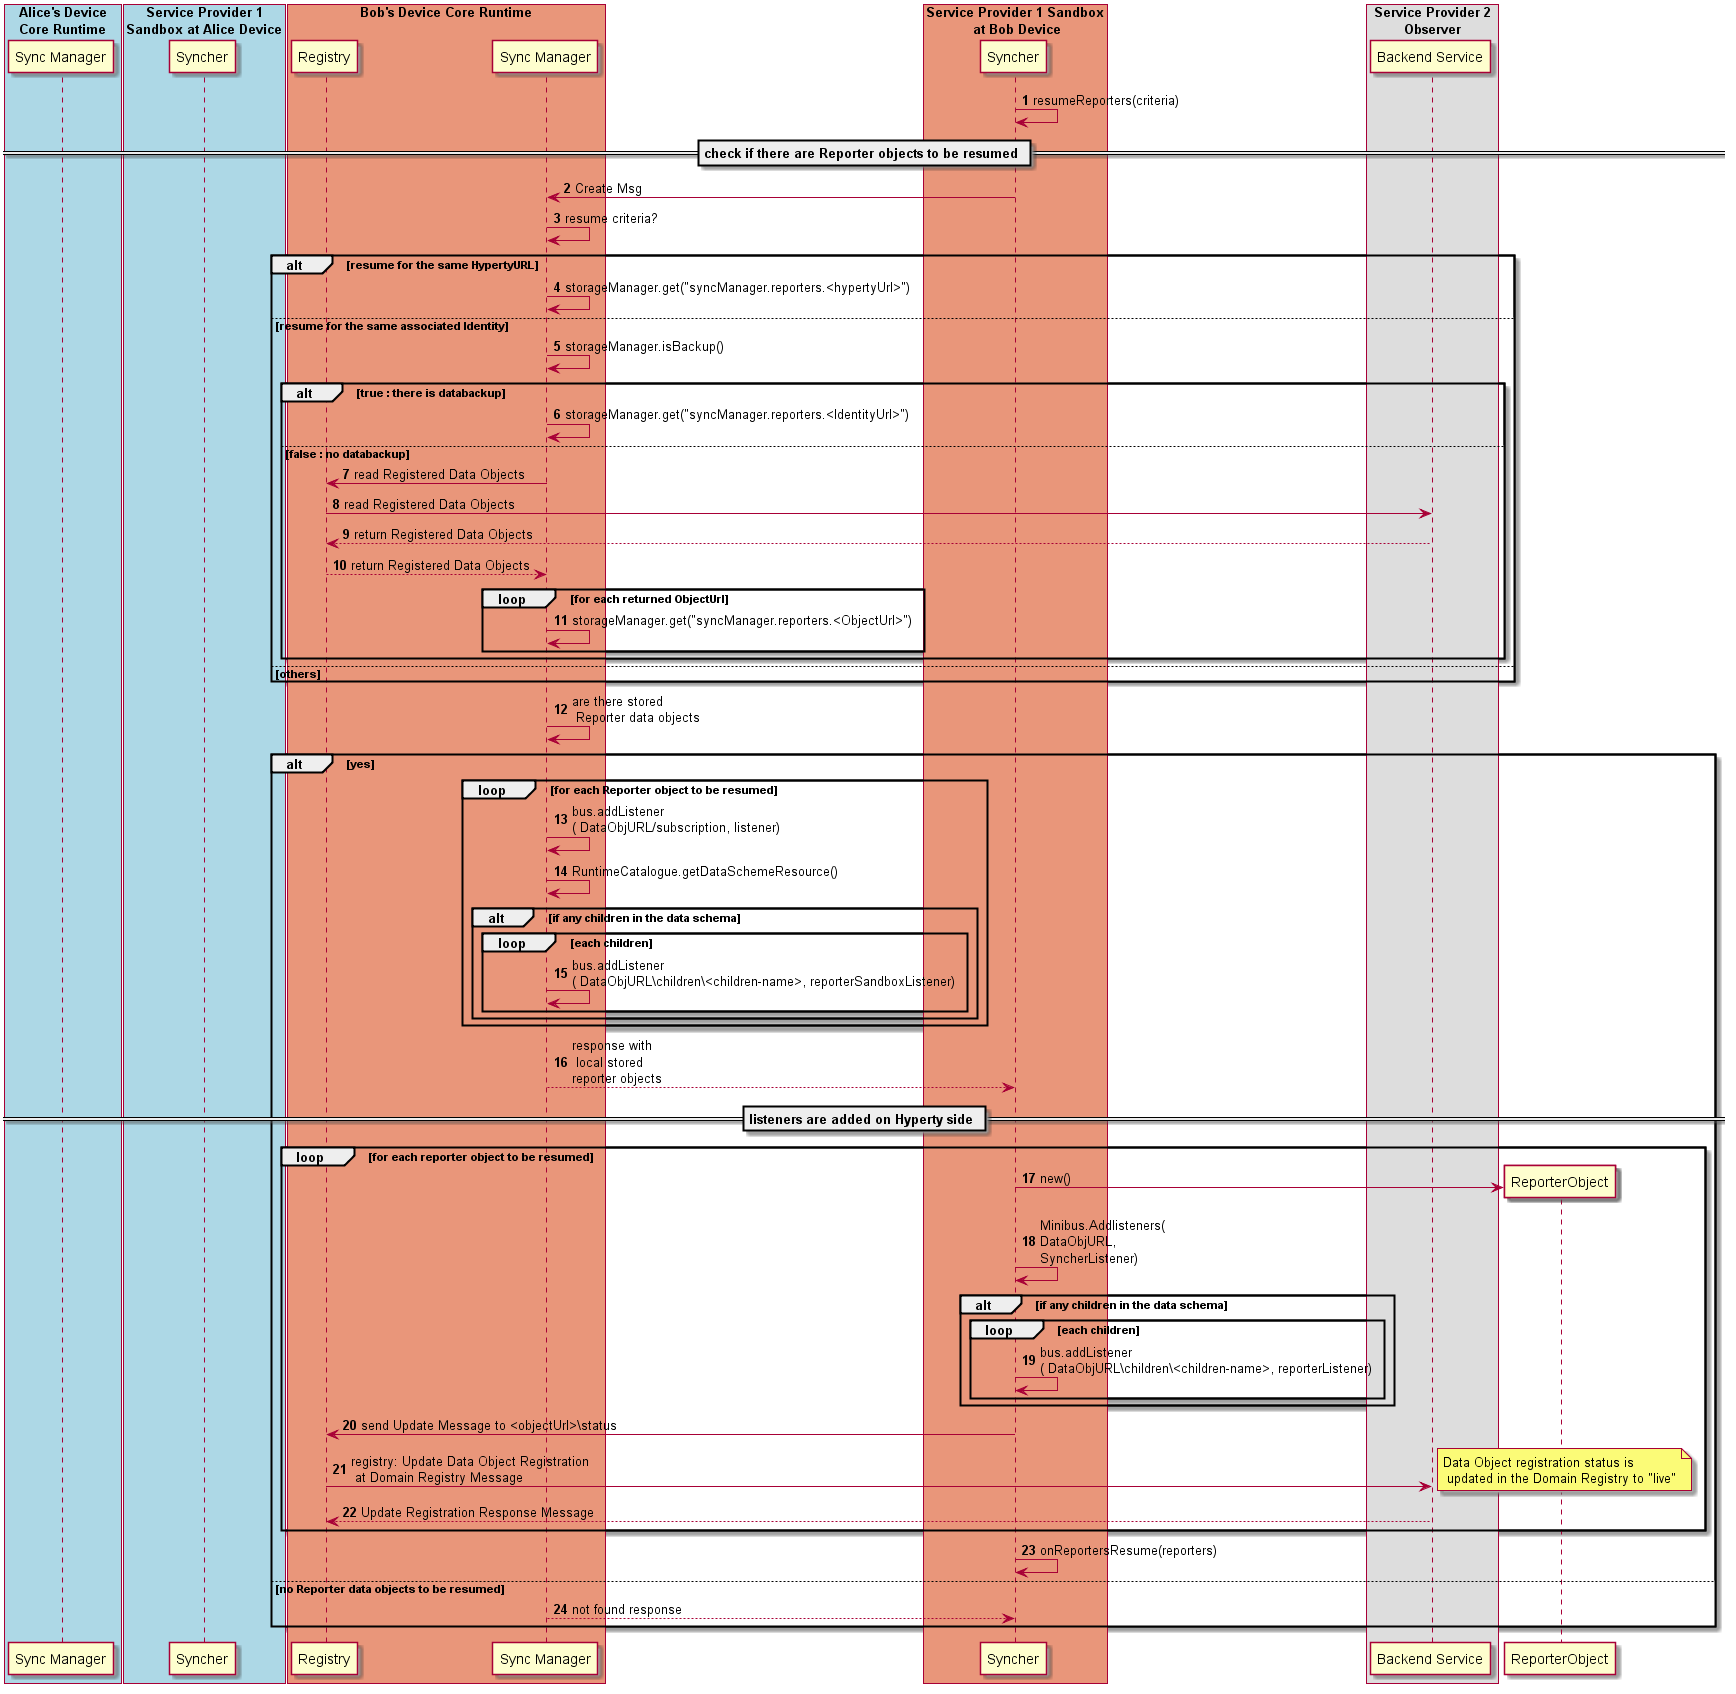
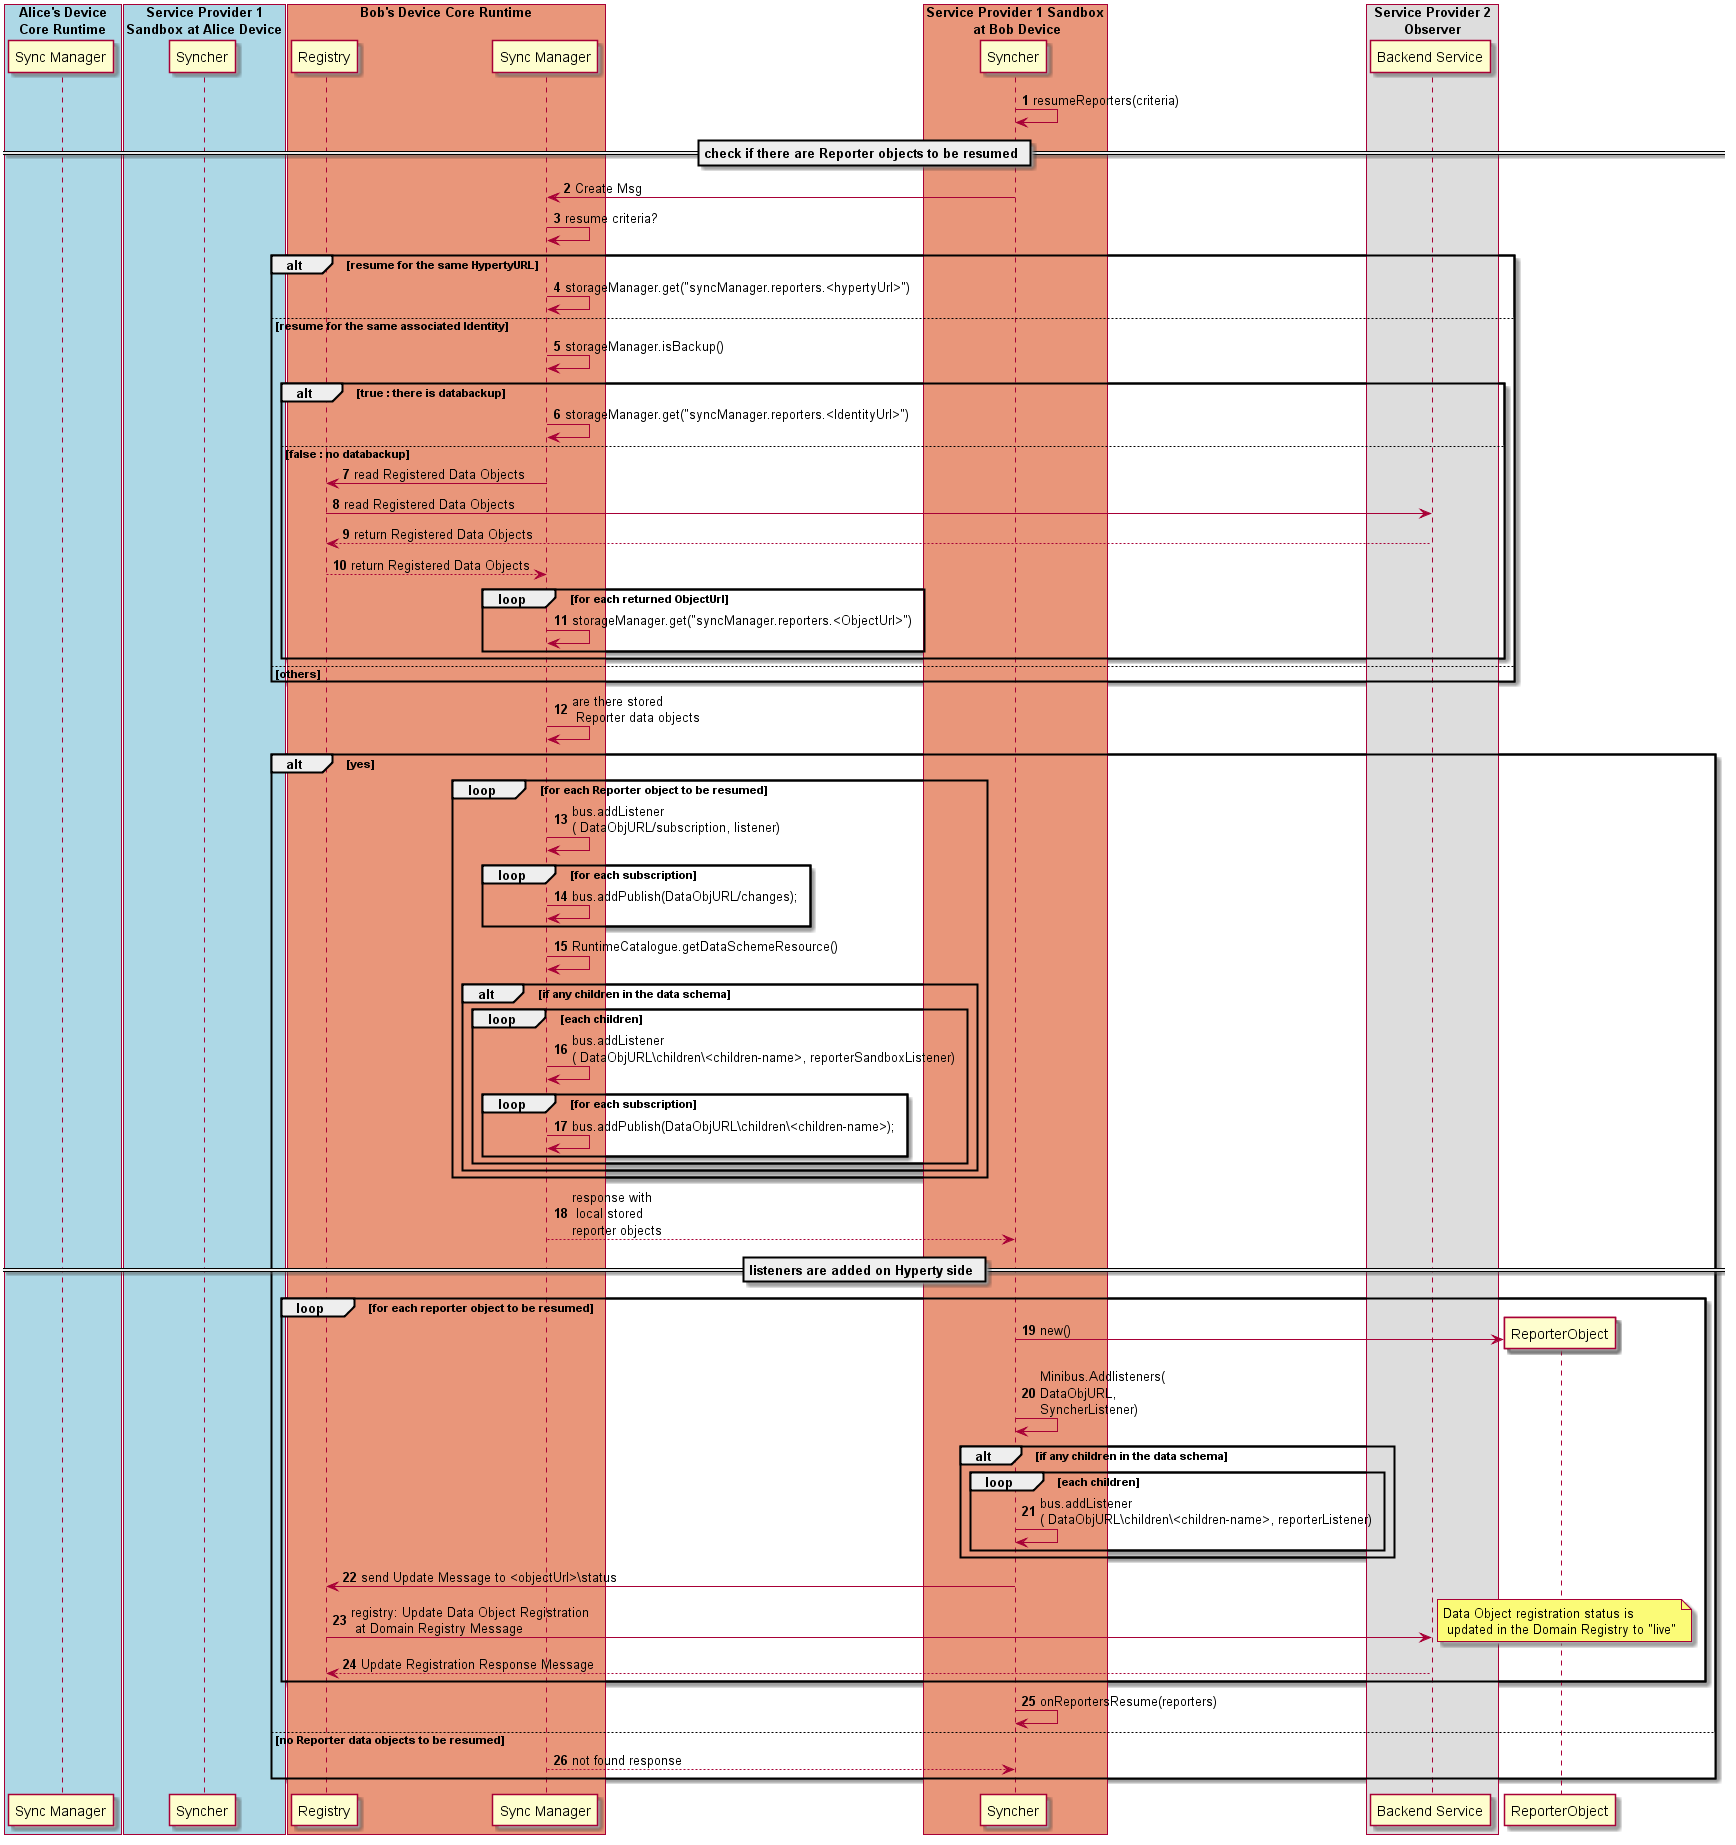
Updated the reporter data object resume procedure in order to be aligned with the implementation

diff --git a/dynamic-view/data-sync/reporters-data-object-resume.md b/dynamic-view/data-sync/reporters-data-object-resume.md
@@ -10,8 +10,8 @@ Steps 1-2: the resume of data synchronisation streams for reporters is performed
 
       ```
       {
-      "resource" : <[dataObject](https://github.com/reTHINK-project/specs/blob/master/datamodel/core/data-synch/readme.md)>,
-      "identity" : <[userIdentity](https://github.com/reTHINK-project/specs/blob/master/datamodel/core/user-identity/readme.md)>
+      "resource" : <dataObject>,
+      "identity" : <userIdentity>
       }
       ```
 If the `criteria` is not provided it is assumed the resume is to be performed for objects previously handled for the same HypertyURL.
@@ -22,8 +22,8 @@ Steps 3 - 4: if there is no criteria provided, the sync manager uses the storage
 Steps 5 - 11: if a data sync criteria is provided for the user identity currently associated to the Hyperty, the sync manager will look for previously associated data objects even if they were handled in a different Runtime device. First it checks if a databackup service is being used by the storage manager. If yes, it will query the storage manager for such data objects. Otherwise, it queries the Registry for such data objects URLs and, in case any objectURL is returned, they are retrieved from the storage manager. To be noted that the Runtime Registry also queries the Domain Registry with a [Read message per UserURL](https://github.com/reTHINK-project/specs/blob/master/messages/registration-messages.md#registry-data-object-search-per-user) or [per UserGUID](https://github.com/reTHINK-project/specs/blob/master/messages/registration-messages.md#registry-data-object-search-per-guid), depending on the criteria used.
 
 
-Steps 12 - 15: If there are Reporter stored data objects, a listener for the ObjectURL read address is added for each one. In addition the data schema is evaluated to check if any children objects may exist and if yes, the reporter sandbox listener is added for it.
+Steps 12 - 17: If there are Reporter stored data objects, a listener for the ObjectURL read address is added for each one and, for each subscriber its listener is added for the ObjectURL changes address. In addition the data schema is evaluated to check if any children objects may exist and if yes, the reporter sandbox listener is added for it as well as subscribers listener. *note: currently, according to the implementation, the [object changes URL and the children URL](https://github.com/reTHINK-project/dev-runtime-core/blob/master/src/syncher/Subscription.js#L31) is being added for each subscriber but in principle this is not needed. FFS*
 
-Steps 16 - 23: then the reporter data objects are returned to the syncher. Each returned Reporter Object is instantiated and a listener for the ObjectURL read address is added as well as listeners for children URLs if they exist in the data schema. At the end, a ReportersResumeEvent is fired with the Data Objects instantiated objects and the object status is updated to "live" which is catch the Runtime Registry that localy updates the object status as well as remotely by sending an updated request message to the Domain Registry.
+Steps 18 - 25: then the reporter data objects are returned to the syncher. Each returned Reporter Object is instantiated and a listener for the ObjectURL read address is added as well as listeners for children URLs if they exist in the data schema. At the end, a ReportersResumeEvent is fired with the Data Objects instantiated objects and the object status is updated to "live" which is catch the Runtime Registry that localy updates the object status as well as remotely by sending an updated request message to the Domain Registry.
 
-Step 24: If there are no Reporter stored data objects a NOT FOUND message is returned .
+Step 26: If there are no Reporter stored data objects a NOT FOUND message is returned .
